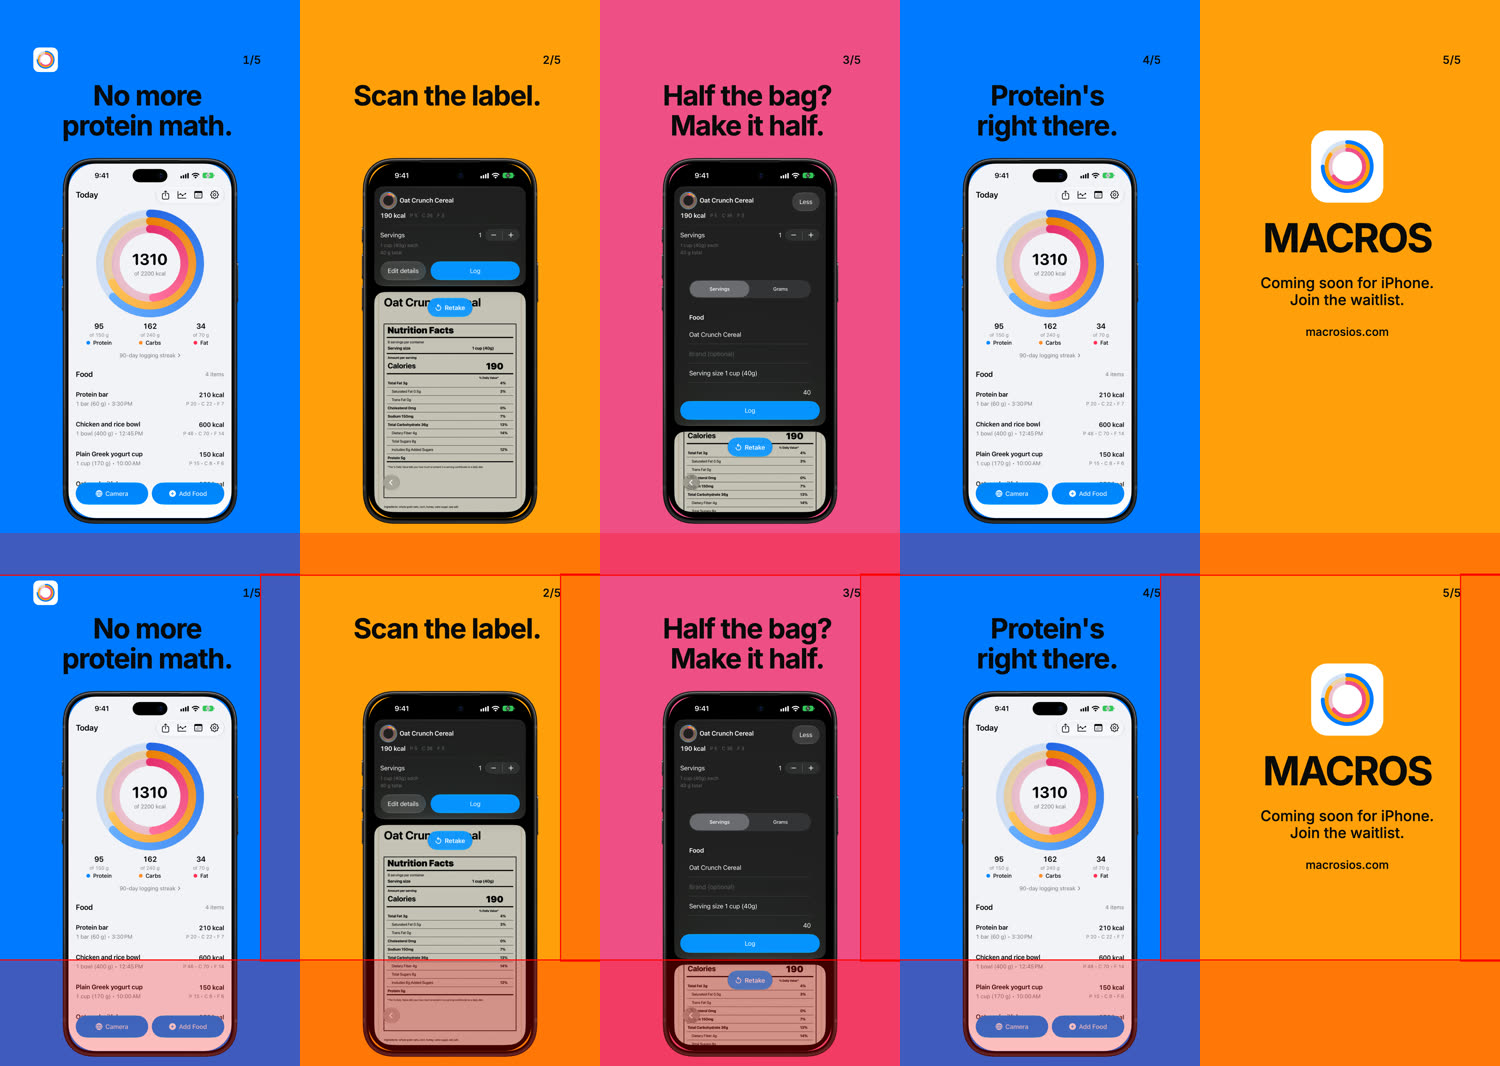
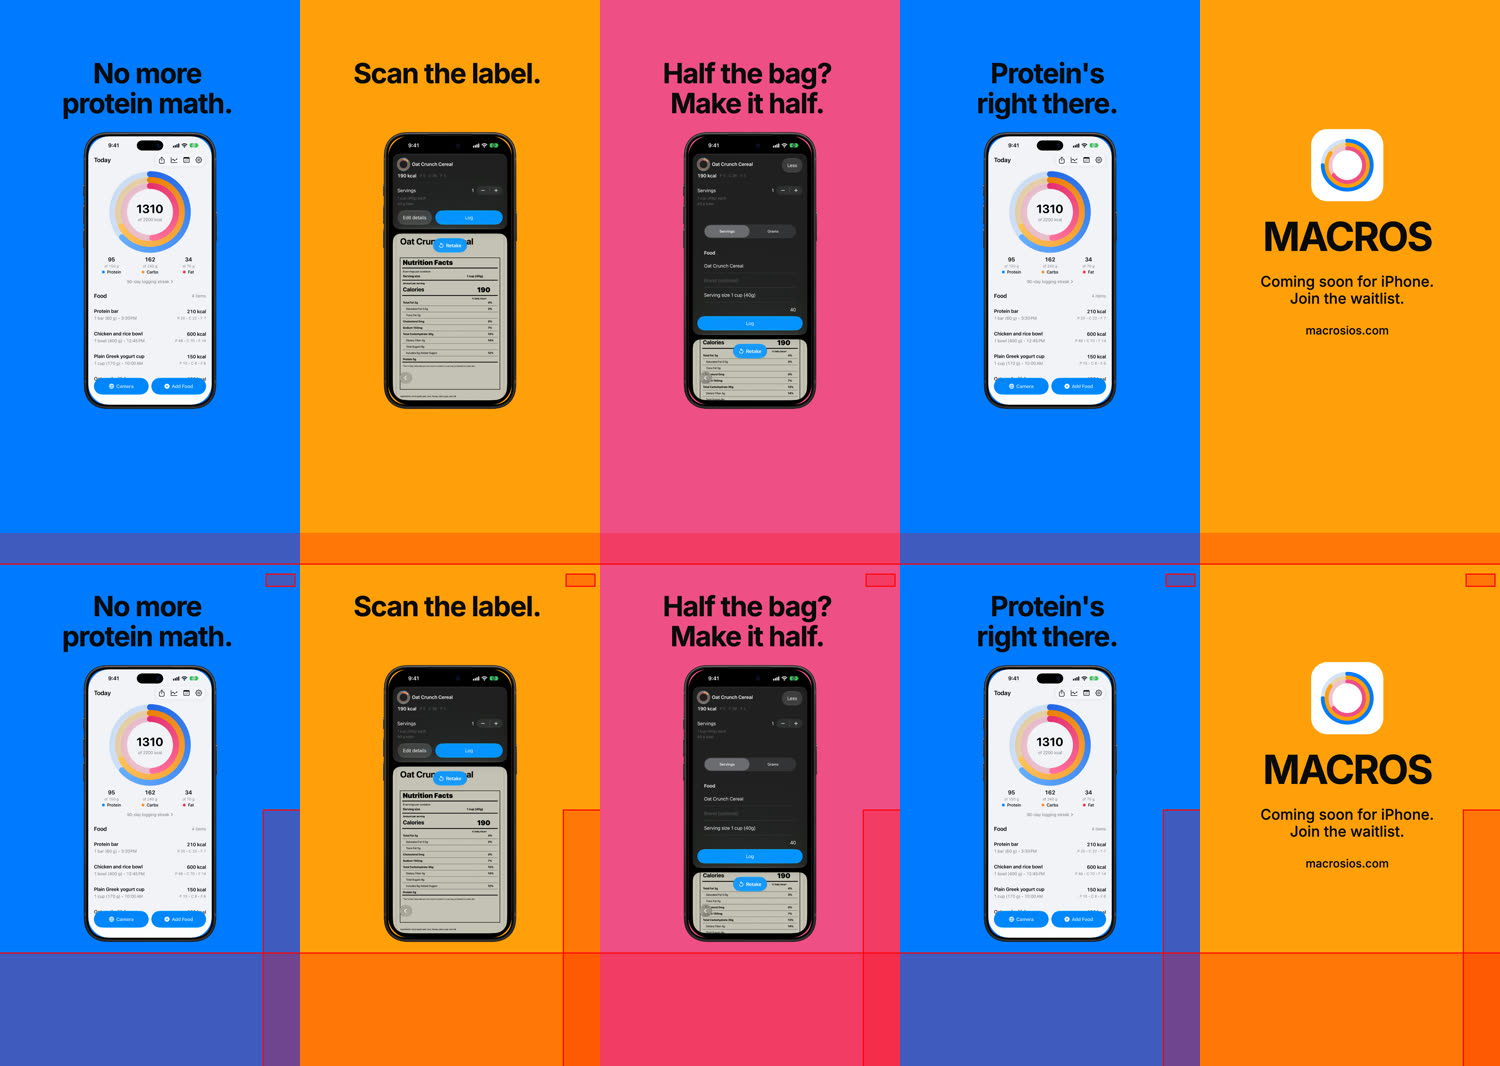
fix(slides): keep TikTok slides clear of photo-mode overlays
- Drop the rings icon and n/5 marker from TikTok slides; TikTok draws its own counter. Instagram keeps both.
- Headline at y 210, one size (100 px). Phone at y 469, scale 0.337, centred, so the bezel ends at y 1480.
- Safe area for text and phone: x 120-940, y 200-1480. Type-only and CTA slides are centred in it.
- Review sheets outline TikTok's photo-mode overlays: top bar, 1/5 pill, caption panel, right column.
- Instagram stills and captions are byte-identical to the previous render.

diff --git a/tools/media/trailer/src/slide.tsx b/tools/media/trailer/src/slide.tsx
@@ -12,15 +12,15 @@ export type SlideProps = { format: Format; set: number; index: number; safeZones
 const LINE_HEIGHT = 1.08;
 const columnAt = (left: number, width: number): React.CSSProperties => ({ position: "absolute", left, width, textAlign: "center" });
 
-// TikTok keeps its own UI over the top 150 px, bottom 380 px and right 140 px; text stays inside x 120-940.
-const SAFE = { top: 150, bottom: 380, right: 140, left: 120 };
+// TikTok photo mode draws its own UI over PHOTO_MODE_OVERLAYS. Text and the phone stay inside this box (see docs/evidence/tiktok-slides/README.md).
+const SAFE = { top: 200, bottom: 1480, left: 120, right: 940 };
 // One size per variant, the largest that keeps every headline within its line limit (see docs/evidence/tiktok-slides/README.md).
 const HEADLINE_SIZE: Record<Copy, number> = { short: 100, full: 105 };
-// Phone slides: the headline block starts at y 290, about 70 px under the marker's baseline (y 233). The bezel starts about 52 px
-// under the tallest two-line headline (ink to y 507), and its scale is the largest that ends 24 px above the bottom edge: (1920 - 24 - 560) / 3000.
-const PHONE_HEADLINE_TOP = 290;
-const PHONE_TOP = 560;
-const PHONE_SCALE = 0.4453;
+// Phone slides: the headline block starts at y 210 and the tallest two-line headline's last ink row is 428. The bezel starts 40 px
+// under that ink, at y 469, and its scale fills the rest of the safe area: (1480 - 469) / 3000 = 0.337.
+const PHONE_HEADLINE_TOP = 210;
+const PHONE_TOP = 469;
+const PHONE_SCALE = (SAFE.bottom - PHONE_TOP) / BEZEL.h;
 
 // Instagram 4:5. The marker row is y 60-130 and the headline starts 50 px under it. One size fits every short headline in two lines
 // within x 90-990 (see docs/evidence/instagram-slides/README.md). The bezel starts 40 px under the tallest two-line headline and ends
@@ -34,7 +34,7 @@ const IG_PHONE_SCALE = (1350 - 24 - IG_PHONE_TOP) / BEZEL.h;
 type Layout = {
   height: number;
   box: React.CSSProperties;
-  marker: { top: number; height: number; icon: number };
+  marker?: { top: number; height: number; icon: number };
   headline: { top: number; size: Record<Copy, number> };
   typeBox: { top: number; height: number };
   endBox: { top: number; height: number };
@@ -44,11 +44,10 @@ type Layout = {
 export const LAYOUT: Record<Format, Layout> = {
   tiktok: {
     height: 1920,
-    box: columnAt(SAFE.left, 1080 - SAFE.right - SAFE.left),
-    marker: { top: 170, height: 90, icon: 0.34 },
+    box: columnAt(SAFE.left, SAFE.right - SAFE.left),
     headline: { top: PHONE_HEADLINE_TOP, size: HEADLINE_SIZE },
-    typeBox: { top: 300, height: 1020 },
-    endBox: { top: SAFE.top, height: 1920 - SAFE.top - SAFE.bottom },
+    typeBox: { top: SAFE.top, height: SAFE.bottom - SAFE.top },
+    endBox: { top: SAFE.top, height: SAFE.bottom - SAFE.top },
     phone: { top: PHONE_TOP, scale: PHONE_SCALE },
   },
   instagram: {
@@ -62,14 +61,17 @@ export const LAYOUT: Record<Format, Layout> = {
   },
 };
 
-const Zones: React.FC = () => {
-  const zone: React.CSSProperties = { position: "absolute", background: "rgba(255,0,0,0.25)", outline: "4px solid #FF0000" };
-  return <>
-    <div style={{ ...zone, left: 0, top: 0, width: 1080, height: SAFE.top }} />
-    <div style={{ ...zone, left: 0, top: 1920 - SAFE.bottom, width: 1080, height: SAFE.bottom }} />
-    <div style={{ ...zone, left: 1080 - SAFE.right, top: SAFE.top, width: SAFE.right, height: 1920 - SAFE.top - SAFE.bottom }} />
-  </>;
-};
+/** TikTok's photo-mode overlays on the 1080 x 1920 canvas (left, top, width, height). The review copies outline them. */
+const PHOTO_MODE_OVERLAYS: React.CSSProperties[] = [
+  { left: 0, top: 0, width: 1080, height: 110 }, // search bar and TikTok's own counter
+  { left: 960, top: 150, width: 100, height: 40 }, // TikTok's "1/5" pill
+  { left: 0, top: 1515, width: 1080, height: 405 }, // caption and comment panel
+  { left: 950, top: 1000, width: 130, height: 920 }, // like, comment and share column
+];
+
+const Zones: React.FC = () => <>
+  {PHOTO_MODE_OVERLAYS.map((rect, i) => <div key={i} style={{ ...rect, position: "absolute", background: "rgba(255,0,0,0.25)", outline: "4px solid #FF0000" }} />)}
+</>;
 
 const EndSlide: React.FC<{ box: React.CSSProperties; intro?: string }> = ({ box, intro }) =>
   <div style={{ ...box, display: "flex", flexDirection: "column", alignItems: "center", justifyContent: "center" }}>
@@ -87,10 +89,10 @@ export const Slide: React.FC<SlideProps> = ({ format, set, index, safeZones, cop
   const isEnd = index === slides.length;
   const headline = copy === "short" ? slide.short ?? slide.headline : slide.headline;
   return <AbsoluteFill style={{ background: slide.color, color: STYLE.text, fontFamily }}>
-    <div style={{ ...layout.box, top: layout.marker.top, height: layout.marker.height, display: "flex", alignItems: "center", justifyContent: "space-between" }}>
+    {layout.marker && <div style={{ ...layout.box, top: layout.marker.top, height: layout.marker.height, display: "flex", alignItems: "center", justifyContent: "space-between" }}>
       <div>{index === 1 && <RingsMark scale={layout.marker.icon} />}</div>
       <div style={{ fontSize: 40, fontWeight: 500, fontVariantNumeric: "tabular-nums" }}>{index}/{slides.length}</div>
-    </div>
+    </div>}
     {!isEnd && <>
       <div style={slide.screenshot ? { ...layout.box, top: layout.headline.top } : { ...layout.box, top: layout.typeBox.top, height: layout.typeBox.height, display: "flex", alignItems: "center", justifyContent: "center" }}>
         <div style={{ fontSize: layout.headline.size[copy], fontWeight: 700, letterSpacing: "-0.03em", lineHeight: LINE_HEIGHT, textWrap: "balance" }}>{headline}</div>

diff --git a/tools/media/trailer/scripts/render-slides.ts b/tools/media/trailer/scripts/render-slides.ts
@@ -1,5 +1,5 @@
 // Renders the slideshows with short headlines. TikTok (default): bun run render:slides [--safe-zones], which writes build/marketing/tiktok/
-// with set-<n>-<slug>/<i>.png, avatar.png and captions.md; --safe-zones writes review/ instead, with the TikTok zones outlined.
+// with set-<n>-<slug>/<i>.png, avatar.png and captions.md; --safe-zones writes review/ instead, with TikTok's photo-mode overlays outlined.
 // Instagram 4:5 (1080 x 1350): bun run render:slides:instagram [--out=<absolute dir>], which writes set-<n>-<slug>/<i>.png and captions.md
 // to --out, default build/marketing/instagram/.
 import { copyFileSync, mkdirSync, writeFileSync } from "node:fs";

diff --git a/tools/media/trailer/scripts/slide-sheets.ts b/tools/media/trailer/scripts/slide-sheets.ts
@@ -1,5 +1,5 @@
 // Contact sheets for the TikTok slideshows: bun run sheets:slides
-// One sheet per set in the short variant: the five slides at 300 px wide, with the same five below under the TikTok zone outlines.
+// One sheet per set in the short variant: the five slides at 300 px wide, with the same five below under the photo-mode overlay outlines.
 // Renders the safe-zone copies itself. The five sheets go to docs/evidence/tiktok-slides/ (tracked, five JPGs).
 import { mkdirSync } from "node:fs";
 import { TIKTOK_DIR, fromRoot, run } from "./paths.ts";

diff --git a/docs/evidence/tiktok-slides/README.md b/docs/evidence/tiktok-slides/README.md
@@ -1,10 +1,10 @@
 # TikTok photo slideshows
 
-Five sets of five 1080 x 1920 stills with the short headlines, and a 1080 x 1080 avatar, rendered from `tools/media/trailer/` with `bun run render:slides`. The PNGs are not tracked: they are in `build/marketing/tiktok/`. Each JPG here is one sheet for one set: the five slides at 300 px wide, with the same five below under the TikTok zone outlines. Regenerate with `bun run sheets:slides`.
+Five sets of five 1080 x 1920 stills with the short headlines, and a 1080 x 1080 avatar, rendered from `tools/media/trailer/` with `bun run render:slides`. The PNGs are not tracked: they are in `build/marketing/tiktok/`. Each JPG here is one sheet for one set: the five slides at 300 px wide, with the same five below them, outlined in red with TikTok's photo-mode overlays. Regenerate with `bun run sheets:slides`, which renders the review copies itself.
 
 Headlines are the shorter `short` set in `src/slides.ts`, one size (100 px) across all slides, at most two lines.
 
-Tracked sheets (five images, under the 2 MiB limit):
+Tracked sheets (five images, about 1.04 MiB together, under the 2 MiB limit):
 
 | Sheet | Shows |
 | --- | --- |
@@ -14,32 +14,56 @@ Tracked sheets (five images, under the 2 MiB limit):
 | `set-4-breakfast-at-your-desk.jpg` | Breakfast at your desk |
 | `set-5-before-dinner.jpg` | Before dinner |
 
-The zone outlines are red: top 150 px, bottom 380 px, right 140 px.
+## Photo-mode overlays
 
-## Phone layout
+TikTok draws its own UI over a photo post. The review sheets outline these four overlays, in image pixels of a 1080 x 1920 slide, measured on the owner's iPhone:
 
-- The icon and the `n/5` marker are unchanged. The marker's baseline is at y 233.
-- The headline block starts at y 290. The headline ink starts at y 303 to 307, 74 px below the marker baseline.
-- Each phone slide has the bezel at y 560, 52 px below the lowest headline ink of the tallest two-line headline (y 507). Text never overlaps the bezel.
-- The bezel is scaled to 0.4453 of Apple's PNG (654.6 x 1335.9 px), centred horizontally. Its box is x 212.7 to 867.3, y 560 to 1895.9, so it stays 24 px inside the bottom edge. The black frame ends at y 1886 because the PNG has a transparent strip under the frame.
-- The phone extends into TikTok's bottom 380 px zone. No text is there.
-- Set 3 slide 1 (no phone) and the five CTA slides keep their layout.
+| Overlay | x | y | What it covers |
+| --- | --- | --- | --- |
+| Top bar | 0-1080 | 0-110 | TikTok's search bar and its own counter |
+| Pill | 960-1060 | 150-190 | TikTok's "1/5" pill |
+| Caption panel | 0-1080 | 1515-1920 | Caption, description and comment bar |
+| Right column | 950-1080 | 1000-1920 | Like, comment and share buttons |
+
+Text and the phone stay in the visible safe area: x 120-940, y 200-1480.
+
+## Layout
+
+- TikTok slides have no rings icon and no `n/5` marker. TikTok shows its own counter. Instagram keeps both.
+- Headline: 100 px, weight 700, line height 1.08, in a box x 120-940 that starts at y 210. Each headline is one or two lines. The tallest headline's last ink row is y 428 (set 1 slide 4, set 3 slide 2, set 4 slide 1).
+- Phone: Apple's unmodified bezel at scale 0.337 (495.4 x 1011.0 px), centred horizontally. Its box is x 292.3-787.7, y 469-1480, so it ends on the safe area's bottom edge. Its top is 40 px under the tallest headline's ink (ink edge at y 429, bezel at 469). Every phone slide uses the same size and place.
+- Scale: the 40 px gap and the bottom edge at 1480 fix the size, so the scale is (1480 - 469) / 3000 = 0.337. Height is the limit, not width: the bezel is 495 px wide in an 820 px column.
+- Set 3 slide 1 (type-only) and the five CTA slides are centred vertically in y 200-1480 (layout centre y 840). Their measured ink centres are y 836 (CTA) and y 848 (set 3 slide 1). The CTA rings mark stays: it is the end card, not the corner icon.
+- Before this change, the headline started at y 290 and the bezel at y 560, scaled to 0.4453. The bezel ran to y 1887, under the caption panel on every phone slide.
 
 ## Checks
 
-- All 25 short stills are 1080 x 1920 (`ffprobe`).
-- Pixel measurements on the rendered PNGs (ink is any channel at or below 60):
-  - Icon and marker rows (y 150 to 265) are byte-identical to the previous render on all 25 slides.
-  - Set 3 slide 1 and the five CTA slides are byte-identical to the previous render, and so is the avatar.
-  - Each headline is one or two lines. On every phone slide, the headline ink ends above y 508, so none of it touches the bezel box (y 560 to 1896, x 213 to 867).
-  - The bezel box lies inside the 1080 x 1920 canvas.
-- Headline size is unchanged (100 px), and so are the line limits. The width checks from the earlier render still hold, since the words and size are the same.
-- Copy: the five approved short headlines are used. The "Demo data" label is removed from every slide, and the flag and its field are gone from `src/slides.ts`. Screenshots, captions and the CTA are unchanged.
-- Claims against the screenshots and site (unchanged):
-  - "Eight servings. In this one box." `app-scan-review.png` shows "8 servings per container" on the label (zoomed to confirm; it is small in the 1320 px capture).
-  - "Scanning is free." `web/src/data/site.ts` FAQ: logging, search, barcode and label scans are free; Pro is optional.
-  - "Half the bag? Make it half." `app-scan-details.png` shows the Servings/Grams review; the servings stepper there steps 0.25.
-  - "Mine doesn't. Open it and log." and "Your diary stays on your phone." match the FAQ ("You can log food without an account") and the on-device storage rule.
-  - "Same yogurt as yesterday." and "There it is." sit on `app-add-food.png`, which shows a "greek yogurt" search with Plain Greek yogurt cup under On Device.
+Pixel measurements on the 25 renders, with Pillow (the script is `build/evidence/tiktok-safe-area/measure.py`, not tracked). Content is any pixel that differs from the slide colour by more than 40 in any channel. Ink is a pixel with R, G and B all at or below 60, the headline colour.
+
+| Check | Result |
+| --- | --- |
+| Content inside x 120-940, y 200-1480 | 25 of 25 slides. Content spans x 128-933 and y 222-1473. |
+| Content pixels inside any overlay | 0 on all 25 slides (before this change, 189,000 to 228,000 px per phone slide under the caption panel) |
+| Headline ink inside any overlay | 0 px on all 19 phone slides |
+| Bezel box intersecting any overlay | None on all 19 phone slides |
+| Black bezel frame inside the bezel box | Yes. Frame pixels span x 299-781, y 476-1473 inside x 292.3-787.7, y 469-1480. |
+| Headline lines | 1 or 2 on every slide. None needs a third line. |
+| Headline ink to bezel | 40 px at minimum (ink ends at y 428, bezel at 469). Other slides have more. |
+| Headline ink x range | 128-932, inside x 120-940 |
+| Headline ink top | y 223 (the box starts at y 210) |
+
+Other checks:
+
+- All 25 stills are 1080 x 1920.
+- Instagram: the 25 stills and `captions.md` are byte-identical to the render from before this change (26 files compared, none differ).
+- Copy is unchanged: headlines, screenshots and the CTA. `captions.md` is the current text from `origin/main` (commit `dfe4ec9`).
+
+## Copy and claims
+
+- "Eight servings. In this one box." `app-scan-review.png` shows "8 servings per container" on the label (zoomed to confirm; it is small in the 1320 px capture).
+- "Scanning is free." `web/src/data/site.ts` FAQ: logging, search, barcode and label scans are free; Pro is optional.
+- "Half the bag? Make it half." `app-scan-details.png` shows the Servings/Grams review; the servings stepper there steps 0.25.
+- "Mine doesn't. Open it and log." and "Your diary stays on your phone." match the FAQ ("You can log food without an account") and the on-device storage rule.
+- "Same yogurt as yesterday." and "There it is." sit on `app-add-food.png`, which shows a "greek yogurt" search with Plain Greek yogurt cup under On Device.
 - Home Screen slides (set 5, slides 3-4) use `tools/media/trailer/public/sources/home-clean.png` (ignored), a still of the trailer's Home Screen after logging. It is frame 20.0 s of `build/marketing/trailer/sources/v3/flow-take1.mov` (the same take `home.mp4` is cut from, 17.6-22.6 s), 1320 x 2868. Checked by eye: only the MACROS icon and the MACROS widgets are visible. No third-party app icon, label, widget or shared-person widget. `app-widgets.png` was dropped because it shows third-party apps (Fitness, Watch, Files) and a shared-person widget, which Apple's marketing rules do not allow on a Home Screen shot.
 - CTA: the site has a waitlist form (`WaitlistForm.astro` on the home and about pages), so slide 5 reads "Coming soon for iPhone. Join the waitlist."

diff --git a/tools/media/trailer/README.md b/tools/media/trailer/README.md
@@ -22,7 +22,7 @@ Each MP4 is 1080 × 1920, 30 fps, 870 frames, h264 yuv420p, stereo AAC (silent).
 
 Five photo sets (25 stills, 1080 x 1920) and a 1080 x 1080 `Avatar` still, same style as the trailer. Copy, colours and screenshots are one table in `src/slides.ts`; the `Slide` composition takes `set`, `index`, `safeZones` and `copy`. Screenshots come from `web/src/assets/app-images/` and are copied to the ignored `public/screens/` on render.
 
-Only the `short` headlines are rendered: `Slide.short` where set, otherwise the headline, at one size (`HEADLINE_SIZE` in `src/slide.tsx`), max two lines. Slides with a screenshot put the headline block at y 290 and the phone at `top` 560 with `scale` 0.4453, so the bezel box ends 24 px above the bottom edge. Slide 1 of set 3 and the CTA slides have no phone.
+Only the `short` headlines are rendered: `Slide.short` where set, otherwise the headline, at one size (`HEADLINE_SIZE` in `src/slide.tsx`), max two lines. Slides with a screenshot put the headline block at y 210 and the phone at `top` 469 with `scale` 0.337, so the bezel box ends at y 1480, the bottom of TikTok's safe area. Slide 1 of set 3 and the CTA slides have no phone.
 
 ```sh
 bun run render:slides   # build/marketing/tiktok/set-<n>-<slug>/<i>.png, avatar.png, captions.md
@@ -32,7 +32,7 @@ bun run render:slides:instagram --out=/absolute/dir   # 4:5, 1080 x 1350; defaul
 
 The Instagram carousel uses the same 25 slides at 1080 x 1350 (`format: 'instagram'` on the `Slide` composition). Its layout is `LAYOUT.instagram` in `src/slide.tsx`; see `docs/evidence/instagram-slides/README.md`.
 
-Slide 5 of each set is the end card: rings mark, MACROS, the CTA and macrosios.com, with no App Store badge until the app is live. Text stays out of TikTok's top 150 px, bottom 380 px and right 140 px.
+Slide 5 of each set is the end card: rings mark, MACROS, the CTA and macrosios.com, with no App Store badge until the app is live. Text and the phone stay in x 120-940, y 200-1480, clear of TikTok's photo-mode overlays (see `docs/evidence/tiktok-slides/README.md`). TikTok slides have no rings icon or `n/5` marker, because TikTok draws its own counter.
 
 ## Shot table
 

diff --git a/docs/evidence/instagram-slides/README.md b/docs/evidence/instagram-slides/README.md
@@ -19,7 +19,7 @@ ffmpeg -i <dir>/set-5-before-dinner/1.png -i <dir>/set-5-before-dinner/2.png -i 
 
 ## Layout
 
-- Marker row, y 60 to 130, x 90 to 990: the rings icon at top left (scale 0.27, 70 px) on set slide 1 only, as in TikTok, and `n/5` at top right.
+- Marker row, y 60 to 130, x 90 to 990: the rings icon at top left (scale 0.27, 70 px) on set slide 1 only, and `n/5` at top right. TikTok has neither: its own UI shows the counter.
 - Headline: one size for every slide, 110 px, weight 700, line height 1.08, `short` copy, at most two lines in a box x 90 to 990. The box starts at y 180, 50 px under the marker row.
 - Phone: Apple's unmodified bezel at scale 0.2881 (423.6 x 864.4 px), centred, top y 461.6, box y 461.6 to 1326.0. That is 24 px above the bottom edge. Every phone slide uses the same size and place. Set 3 slide 1 and the five CTA slides have no phone.
 - Type-only slide and CTA slides are centred in y 130 to 1290.
